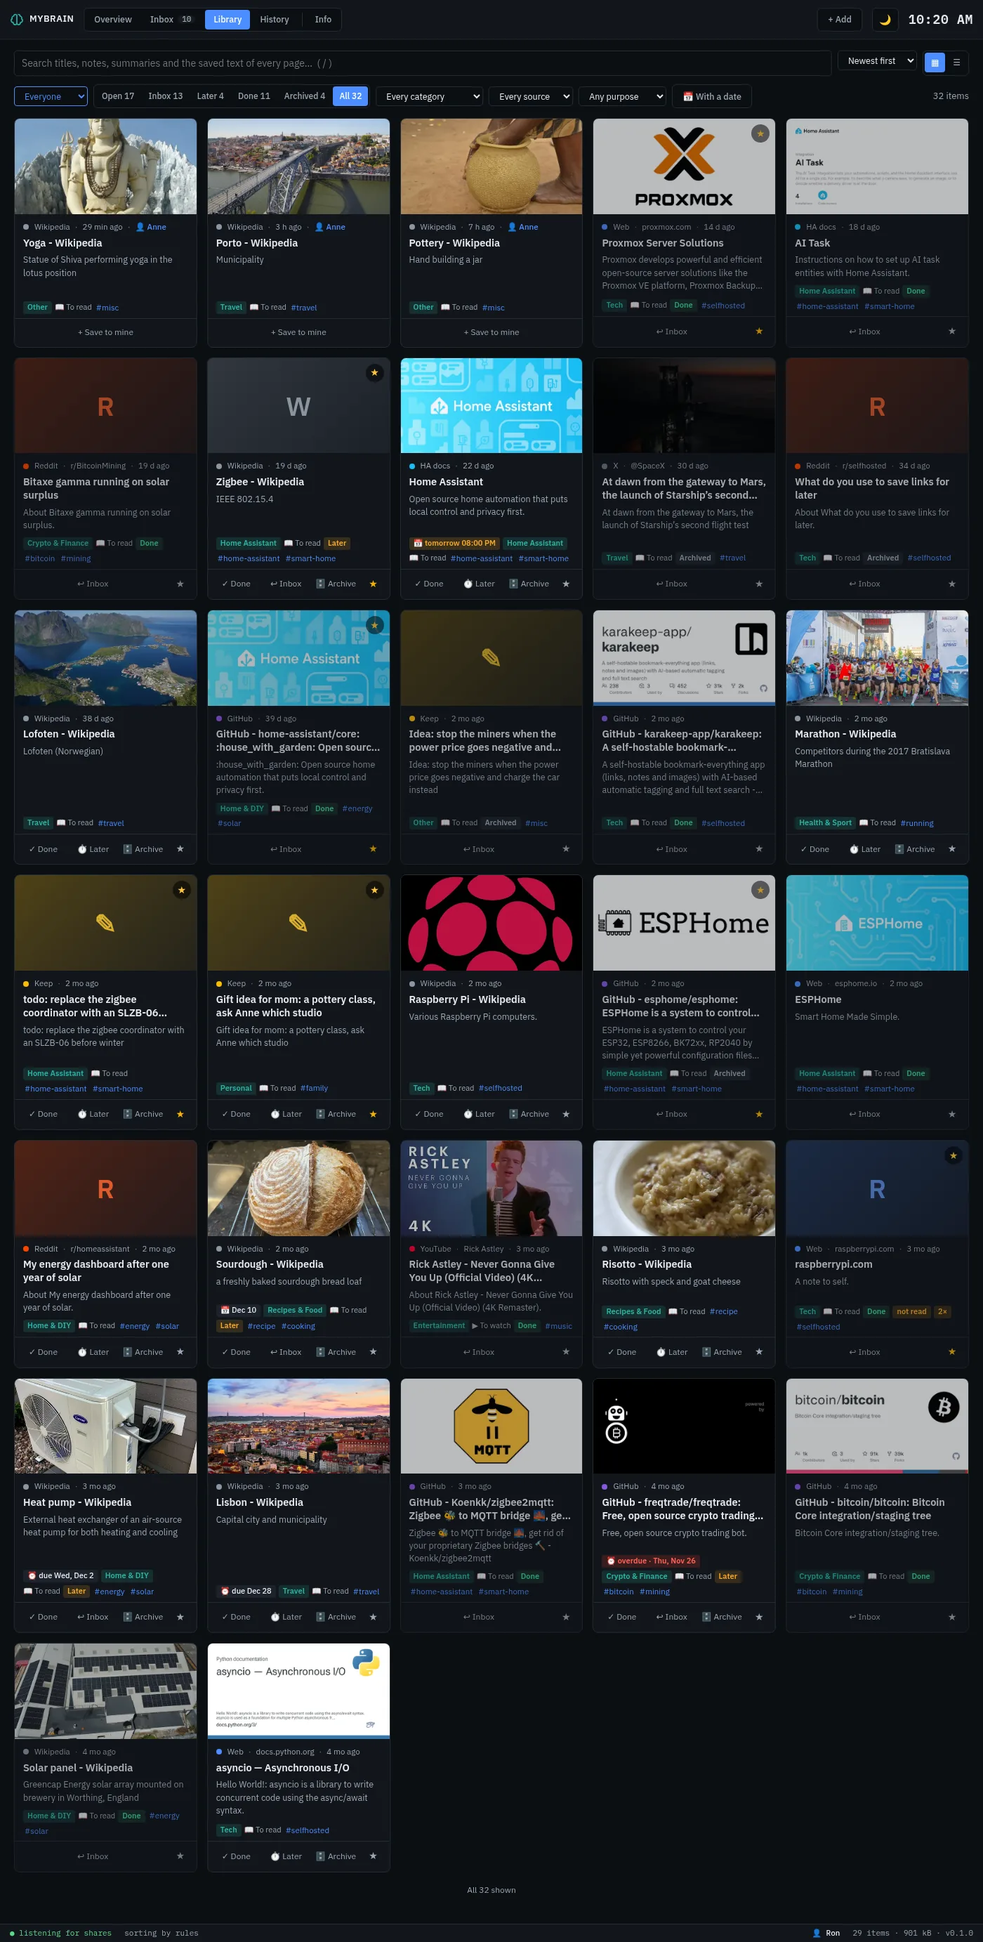
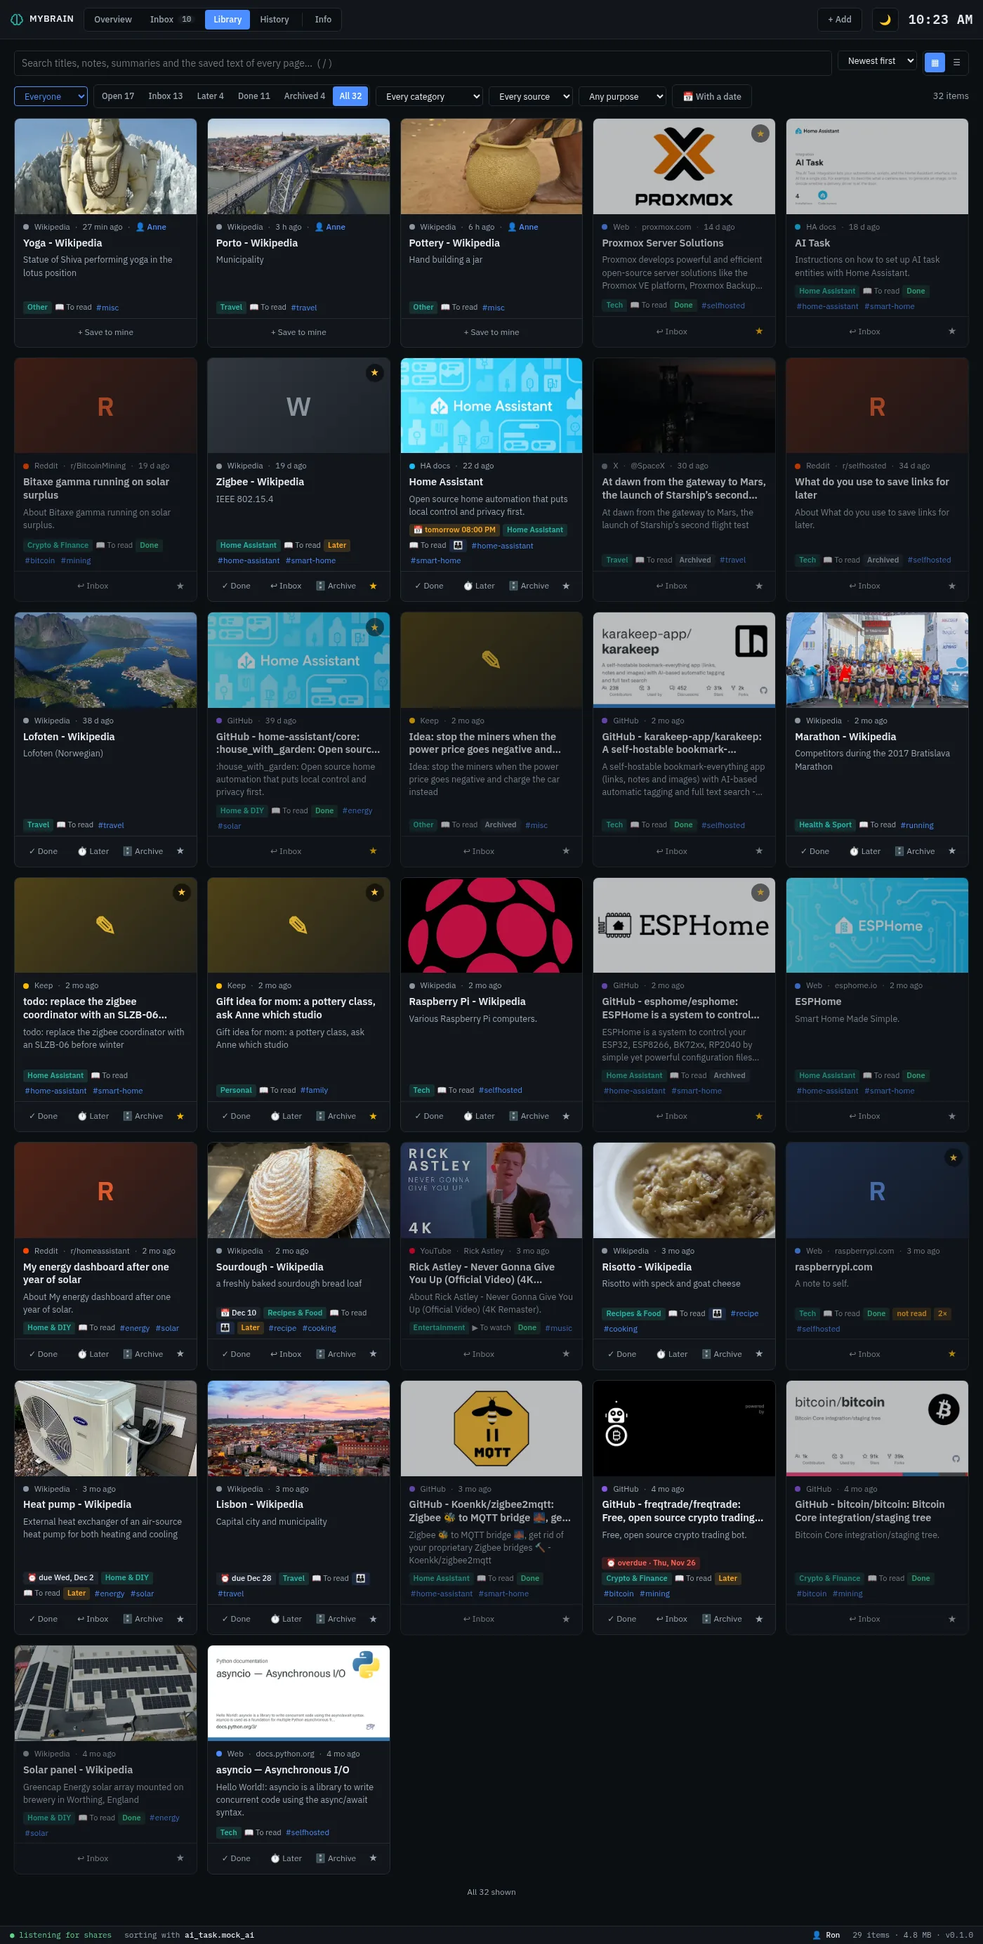
MyBrain 0.1.0: private by default, shared with the household on request
A new item is only its owner's until they share it (👪 Household in the item);
share_by_default turns it the other way round. Cards mark what differs from the
default.

diff --git a/app-mybrain/src/web/pages.js b/app-mybrain/src/web/pages.js
@@ -352,7 +352,7 @@ function drawLibrary() {
     options('lib-source', 'Every source', f.source || {}, sourceName);
     options('lib-purpose', 'Any purpose', f.purpose || {}, k => `${purposeIcon(k)} ${purposeLabel(k)}`);
     document.getElementById('lib-dated').classList.toggle('active', library.dated);
-    // Whose: mine, everyone's, or one person's (only what they didn't mark private)
+    // Whose: mine, everyone's, or one person's (only what they share)
     const others = (app.status.household || []).filter(h => h.owner !== app.status.viewer.id);
     const whoseEl = document.getElementById('lib-whose');
     whoseEl.hidden = !others.length && library.whose === 'mine';
@@ -451,12 +451,12 @@ onTab('info', () => {
         <div class="panel"><div class="panel-body">
             <div class="section-title">Calendar</div>
             ${calendarText(s)}
-            <p class="muted">Open items with a <b>due</b> date (⏰) or an <b>on</b> date (📅) are kept in step: changed when the item changes, removed when it is done or archived. Yours has all of yours; the household calendar has everyone's that aren't private. Add one in Home Assistant with <b>Settings → Devices &amp; services → Add integration → Local Calendar</b>. Events you add there yourself are left alone.</p>
+            <p class="muted">Open items with a <b>due</b> date (⏰) or an <b>on</b> date (📅) are kept in step: changed when the item changes, removed when it is done or archived. Yours has all of yours; the household calendar has what everyone shares. Add one in Home Assistant with <b>Settings → Devices &amp; services → Add integration → Local Calendar</b>. Events you add there yourself are left alone.</p>
             ${infoRow('Sensor', `<span class="mono">${escapeHtml((s.entities || {}).next_sensor || 'sensor.mybrain_next')}</span>: your next item with a date (overdue ones first), with when, how many days, the link and the next five`)}
         </div></div>
         <div class="panel"><div class="panel-body">
             <div class="section-title">In Home Assistant</div>
-            ${infoRow('You', s.viewer.id ? `${escapeHtml(s.viewer.name || 'signed in')}: your own inbox, library and history; the household sees your items unless you mark them 🔒 private` : 'one collection for everyone (the app does not know who is looking)')}
+            ${infoRow('You', s.viewer.id ? `${escapeHtml(s.viewer.name || 'signed in')}: your own inbox, library and history; ${s.config.share_by_default ? 'the household sees your items unless you mark them 🔒 private' : 'what you save is only yours until you share it with the household (👪 in an item)'}` : 'one collection for everyone (the app does not know who is looking)')}
             ${infoRow('Sensor', `<span class="mono">${escapeHtml((s.entities || {}).inbox_sensor || 'sensor.mybrain_inbox')}</span>: items in your inbox; later, done, archived and total as attributes`)}
             ${infoRow('Home Assistant', escapeHtml(s.ha_version || '–'))}
             <p class="muted">Use it for a badge on a dashboard, or an automation that reminds you when the inbox grows.</p>

diff --git a/app-mybrain/src/web/mybrain.js b/app-mybrain/src/web/mybrain.js
@@ -122,7 +122,10 @@ function card(item, opts) {
     const again = item.shares > 1 ? `<span class="badge warn" title="Saved ${item.shares} times">${item.shares}×</span>` : '';
     const mine = isMine(item);
     const status = opts.showStatus && mine && item.status !== 'inbox' ? `<span class="badge st-${item.status}">${STATUS_LABELS[item.status]}</span>` : '';
-    const lock = item.private ? '<span class="badge private" title="Private: only you see it">🔒</span>' : '';
+    // Only what differs from the household's default gets a mark: 👪 when shared, or 🔒 when private
+    const sharing = app.status.config.share_by_default;
+    const lock = !mine ? '' : item.private && sharing ? '<span class="badge private" title="Private: only you see it">🔒</span>'
+        : !item.private && !sharing && item.owner ? '<span class="badge shared" title="Shared with the household">👪</span>' : '';
     const actions = !mine
         ? `<button type="button" class="act" data-act="copy" title="Save it to your own MyBrain">+ Save to mine</button>`
         : item.status === 'done' || item.status === 'archived'
@@ -269,7 +272,7 @@ function renderSheet() {
                     <label>Tags</label><input class="input" data-field="tags" value="${escapeHtml((item.tags || []).join(', '))}" placeholder="comma, separated" spellcheck="false">
                     <label title="By when it needs doing">Due</label>${dateField('due', item.due)}
                     <label title="When it happens: an event, a trip, a release">On</label>${dateField('happens_on', item.happens_on)}
-                    <label title="Who else sees it">Seen by</label>${segmented('private', [[0, '👪 Household'], [1, '🔒 Only me']], item.private ? 1 : 0)}
+                    <label title="Who else sees it">Seen by</label>${segmented('private', [[1, '🔒 Only me'], [0, '👪 Household']], item.private ? 1 : 0)}
                 </div>
                 <h3>Your note</h3>
                 <textarea class="input note-edit" data-field="note" rows="3" placeholder="Why did you save this?">${escapeHtml(item.note || '')}</textarea>`

diff --git a/app-mybrain/src/web/mybrain.css b/app-mybrain/src/web/mybrain.css
@@ -53,6 +53,7 @@ kbd { font-family: var(--mono); font-size: 11px; padding: 1px 5px; border: 1px s
 .badge.date { background: var(--grid-color); color: var(--primary-text-color); font-weight: 500; }
 .badge.date.warn { background: rgba(245,165,36,0.18); color: var(--warning-color); font-weight: 600; }
 .badge.date.bad { background: var(--danger-bg); color: var(--danger-color); font-weight: 600; }
+.badge.shared { background: color-mix(in srgb, var(--primary-color) 14%, transparent); color: var(--primary-color); }
 .badge.private { background: var(--grid-color); color: var(--secondary-text-color); }
 .card-meta .owner { color: var(--primary-color); font-weight: 500; }
 .date-field { display: flex; gap: 6px; align-items: center; flex-wrap: wrap; }

diff --git a/app-mybrain/tests/test_mybrain.py b/app-mybrain/tests/test_mybrain.py
@@ -427,7 +427,7 @@ async def test_dates_are_edited_and_listed(brain, store):
 
 
 # ----------------------------------------------------------------------
-# Users: own items, public by default, private when marked
+# Users: own items, private by default, shared when marked
 # ----------------------------------------------------------------------
 async def test_each_user_has_their_own_items(brain, store):
     b = brain(ai=False)
@@ -436,6 +436,10 @@ async def test_each_user_has_their_own_items(brain, store):
     assert ron != anne  # the same link is a separate item per user
     [again] = await b.add(text="https://example.com/a?utm_source=x", owner="u-anne")
     assert again == anne
+    # Private until shared
+    assert store.get(anne)["private"] == 1
+    assert store.search(viewer="u-ron", whose="everyone")["total"] == 1
+    await b.edit(anne, {"private": False}, "u-anne")
     assert [i["id"] for i in store.search(viewer="u-ron")["items"]] == [ron]
     assert {i["id"] for i in store.search(viewer="u-ron", whose="everyone")["items"]} == {ron, anne}
     assert [i["id"] for i in store.search(viewer="u-ron", whose="user:u-anne")["items"]] == [anne]
@@ -445,6 +449,8 @@ async def test_each_user_has_their_own_items(brain, store):
 async def test_private_items_stay_private(brain, store):
     b = brain(ai=False)
     [secret] = await b.add(text="a surprise for Ron", owner="u-anne")
+    await b.edit(secret, {"private": False}, "u-anne")
+    assert store.search(viewer="u-ron", whose="everyone")["total"] == 1
     await b.edit(secret, {"private": True}, "u-anne")
     assert store.search(viewer="u-ron", whose="everyone")["total"] == 0
     assert store.search(viewer="u-ron", whose="user:u-anne")["total"] == 0
@@ -458,6 +464,7 @@ async def test_private_items_stay_private(brain, store):
 async def test_only_the_owner_changes_an_item(brain, store):
     b = brain(ai=False)
     [item_id] = await b.add(text="https://example.com/b", owner="u-anne")
+    await b.edit(item_id, {"private": False}, "u-anne")
     for attempt in (
         b.edit(item_id, {"status": "done"}, "u-ron"),
         b.delete(item_id, "u-ron"),
@@ -495,3 +502,10 @@ def test_entity_names_per_user(store):
         [{"id": 1, "title": "Trip", "owner": "u-anne", "due": "", "happens_on": "2026-12-01"}], users
     )
     assert events["mybrain:1:happens_on"]["summary"] == "Trip (Anne-Marie)"
+
+
+async def test_share_by_default_option(tmp_path, store):
+    b = Brain(Config(share_by_default=True), store, FakeHA(False), FakeFetcher(tmp_path, {}))
+    [item_id] = await b.add(text="for everyone", owner="u-anne")
+    assert store.get(item_id)["private"] == 0
+    assert Config.from_options({}).share_by_default is False

diff --git a/app-mybrain/src/brain.py b/app-mybrain/src/brain.py
@@ -87,6 +87,8 @@ class Brain:
         note = re.sub(r"[ \t]+", " ", note)
         note = re.sub(r"\n\s*\n+", "\n\n", note).strip(" \n-\u2013\u2014|:")
         extra = {k: v for k, v in (("subject", subject), ("device", device)) if v}
+        # Only for whoever saved it, until they share it (unless the household shares by default)
+        private = 0 if self.config.share_by_default or not owner else 1
 
         if not links:
             if not note and not subject:
@@ -104,6 +106,7 @@ class Brain:
                     "fetch_state": "skipped",
                     "extra": extra,
                     "owner": owner,
+                    "private": private,
                 },
             )
             self._enqueue(item_id)
@@ -132,6 +135,7 @@ class Brain:
                     "fetch_state": "waiting" if self.config.fetch_pages else "skipped",
                     "extra": extra,
                     "owner": owner,
+                    "private": private,
                 },
             )
             self._enqueue(item_id)

diff --git a/app-mybrain/tools/seed.py b/app-mybrain/tools/seed.py
@@ -69,8 +69,8 @@ SHARES = [
         "user": "u-anne",
     },
 ]
-# Anne keeps the present to herself
-PRIVATE = ["Birthday present for Ron%"]
+# What is shared with the household (the rest stays private, the default)
+SHARED = ["Pottery%", "Porto%", "Yoga%", "Lisbon%", "Sourdough%", "Risotto%", "Home Assistant"]
 
 
 def wait_until_done() -> None:
@@ -125,8 +125,8 @@ def main(data_dir: Path) -> None:
     ):
         value = time.strftime("%Y-%m-%d", time.localtime(now + offset * day)) + time_of_day
         db.execute(f"UPDATE items SET {kind} = ? WHERE id = ?", (value, item_id))
-    for pattern in PRIVATE:
-        db.execute("UPDATE items SET private = 1 WHERE title LIKE ?", (pattern,))
+    for pattern in SHARED:
+        db.execute("UPDATE items SET private = 0 WHERE title LIKE ?", (pattern,))
     db.commit()
     print(f"{len(ids)} items")
 

diff --git a/app-mybrain/src/config.py b/app-mybrain/src/config.py
@@ -60,6 +60,8 @@ class Config:
     calendar_sync: bool = True
     # Which calendar; empty is calendar.mybrain (a Local Calendar named MyBrain)
     calendar_entity: str = ""
+    # New items are seen by the household (True) or only by whoever saved them (False, the default)
+    share_by_default: bool = False
     categories: list[str] = field(default_factory=lambda: list(DEFAULT_CATEGORIES))
     log_level: str = "info"
 
@@ -96,6 +98,7 @@ class Config:
             ai_task_entity=entity,
             calendar_sync=bool(options.get("calendar_sync", True)),
             calendar_entity=calendar,
+            share_by_default=bool(options.get("share_by_default", False)),
             categories=categories,
             log_level=str(options.get("log_level") or "info"),
         )

diff --git a/app-mybrain/src/webui.py b/app-mybrain/src/webui.py
@@ -114,6 +114,7 @@ class WebUI:
                     "ai_task_entity": self.config.ai_task_entity,
                     "calendar_sync": self.config.calendar_sync,
                     "calendar_entity": self.config.calendar_entity,
+                    "share_by_default": self.config.share_by_default,
                 },
                 "categories": self.config.categories,
                 "purposes": classify.PURPOSES,

diff --git a/app-mybrain/DOCS.md b/app-mybrain/DOCS.md
@@ -18,10 +18,10 @@ Every Home Assistant user has their own MyBrain in the same app:
 
 - **What you share is yours.** A share belongs to the user your phone's Home Assistant app is signed in as; what you add on the page belongs to you.
 - **Your own inbox, overview and history.** The overview and the inbox only count your items.
-- **Seen by the household, unless private.** Others can browse your items (**Library → Whose → Everyone**, or a person), open them, and **+ Save to mine** to get their own copy. Set **Seen by → 🔒 Only me** in an item to keep it to yourself: then nobody else sees it, and it stays out of the household calendar.
+- **Yours alone, until you share it.** A new item is only seen by you. Set **Seen by → 👪 Household** in an item to share it: then the others can browse it (**Library → Whose → Everyone**, or a person), open it, and **+ Save to mine** to get their own copy, and it goes into the household calendar. Shared items have 👪 on their card. Turn on `share_by_default` to have it the other way round: everything shared unless marked **🔒 Only me**.
 - **Only you change your items.** Others can't mark them done, change them or delete them.
 - **Per person in Home Assistant:** `sensor.mybrain_inbox_<name>`, `sensor.mybrain_next_<name>` and, when you add a Local Calendar named **MyBrain <name>**, `calendar.mybrain_<name>` with all your items that have a date. `<name>` is the person's name as Home Assistant writes it in an entity id (Anne-Marie → `anne_marie`).
-- **The household calendar** `calendar.mybrain` (a Local Calendar named **MyBrain**) has everyone's items with a date that aren't private, with whose it is after the title.
+- **The household calendar** `calendar.mybrain` (a Local Calendar named **MyBrain**) has everyone's shared items with a date, with whose it is after the title.
 
 Names come from the person entities in Home Assistant. A user who has never saved anything has no sensors yet.
 
@@ -97,7 +97,7 @@ An item can have two dates, each a day or a day with a time:
 
 Set them in the item. With AI sorting on, a date the content names is filled in by itself (only when the item has none yet, and only today or later, within three years).
 
-**The calendars.** With a Local Calendar named **MyBrain <name>** (`calendar.mybrain_<name>`) the app keeps it in step with every open item of that person that has a date; the household calendar **MyBrain** (`calendar.mybrain`, or the one in `calendar_entity`) gets everyone's that aren't private. In both: due dates as ⏰ events, on dates as normal ones, a whole day or half an hour / an hour at the time given. The event has the link and your note. Changing the item changes the event; done, archived or deleted removes it. The app recognises its own events by the last line of their description (`mybrain:<item>:<kind>`) and never touches other events in that calendar, so you may use it for other things too. Changing a MyBrain event in the calendar is undone at the next sync: change the item instead.
+**The calendars.** With a Local Calendar named **MyBrain <name>** (`calendar.mybrain_<name>`) the app keeps it in step with every open item of that person that has a date; the household calendar **MyBrain** (`calendar.mybrain`, or the one in `calendar_entity`) gets everyone's shared ones. In both: due dates as ⏰ events, on dates as normal ones, a whole day or half an hour / an hour at the time given. The event has the link and your note. Changing the item changes the event; done, archived or deleted removes it. The app recognises its own events by the last line of their description (`mybrain:<item>:<kind>`) and never touches other events in that calendar, so you may use it for other things too. Changing a MyBrain event in the calendar is undone at the next sync: change the item instead.
 
 **`sensor.mybrain_next_<name>`** — your next item with a date: overdue due dates first, then whatever comes next. The state is its title; the attributes are `when`, `kind` (`due` or `happens_on`), `days` (negative when overdue), `url`, `item_id`, `category`, `overdue` (how many) and `upcoming` (the next five).
 
@@ -130,6 +130,7 @@ listen_shares: true
 fetch_pages: true
 ai_classify: true
 calendar_sync: true
+share_by_default: false
 categories:
   - Tech
   - Home Assistant
@@ -145,6 +146,7 @@ categories:
 | `ai_task_entity` | *(empty)* | Which AI Task entity, like `ai_task.openai_ai_task`. Empty: the first one |
 | `calendar_sync` | `true` | Keep the calendar in step with the items that have a date |
 | `calendar_entity` | *(empty)* | Which calendar is the household's. Empty: `calendar.mybrain` |
+| `share_by_default` | `false` | Off: a new item is only its owner's until they share it. On: new items are shared with the household unless marked private |
 | `categories` | 14 categories | The categories to sort into. `Other` is always added. Renaming one doesn't move the items that have it: they keep the old name until sorted again or changed |
 | `log_level` | `info` | `debug`, `info`, `warning` or `error` |
 

diff --git a/app-mybrain/CHANGELOG.md b/app-mybrain/CHANGELOG.md
@@ -4,4 +4,4 @@
 
 **After updating:** nothing to do. Open **MyBrain** from the sidebar, then on your phone share any link to the **Home Assistant** app.
 
-- First version. What is shared to the Home Assistant companion app is saved at once; the page behind a link is read (title, picture, text) and the item sorted into a category with tags, what it is for and a priority, by an AI Task entity in Home Assistant when there is one, otherwise by built-in rules. An inbox to work through, a searchable library with filters, an overview with what is saved and handled, what is waiting and what is being forgotten, the history of everything, adding by hand, an export of everything as JSON. Items can have a due date and an on date (the AI fills them in when the content names one); open items with a date are kept in a Local Calendar (`calendar.mybrain`), and `sensor.mybrain_next` holds the next one. `sensor.mybrain_inbox` holds the size of the inbox. Every Home Assistant user has their own MyBrain: a share belongs to the user the phone is signed in as, items are seen by the household unless marked private, others' items can be browsed and saved to your own, and the sensors and a personal calendar exist per user, next to a household calendar.
+- First version. What is shared to the Home Assistant companion app is saved at once; the page behind a link is read (title, picture, text) and the item sorted into a category with tags, what it is for and a priority, by an AI Task entity in Home Assistant when there is one, otherwise by built-in rules. An inbox to work through, a searchable library with filters, an overview with what is saved and handled, what is waiting and what is being forgotten, the history of everything, adding by hand, an export of everything as JSON. Items can have a due date and an on date (the AI fills them in when the content names one); open items with a date are kept in a Local Calendar (`calendar.mybrain`), and `sensor.mybrain_next` holds the next one. `sensor.mybrain_inbox` holds the size of the inbox. Every Home Assistant user has their own MyBrain: a share belongs to the user the phone is signed in as, items are private until their owner shares them with the household (or shared by default with `share_by_default`), shared items can be browsed by the others and saved to their own, and the sensors and a personal calendar exist per user, next to a household calendar.

diff --git a/app-mybrain/SECURITY.md b/app-mybrain/SECURITY.md
@@ -52,10 +52,10 @@ So you know what is at stake:
   Home Assistant's ingress says is looking (`X-Remote-User-Id`). Every request
   must come from the ingress proxy, so another app on the network can't claim
   to be someone else. Only the owner changes or deletes an item.
-- **Public by default, private on request.** Everyone in the household can
-  browse an item unless its owner marks it private; a private item is not
-  shown to others, not in the household calendar, and not in what others can
-  copy. Administrators of Home Assistant can of course read the app's database
+- **Private by default, shared on request.** A new item is only seen by its
+  owner until they share it with the household (with `share_by_default` on,
+  the other way round). A private item is not shown to others, not in the
+  household calendar, and not in what others can copy. Administrators of Home Assistant can of course read the app's database
   through a backup.
 - **Only from Home Assistant's signed-in ingress.** Adding, changing and
   deleting are accepted from the ingress proxy and as JSON only. The panel is

diff --git a/app-mybrain/README.md b/app-mybrain/README.md
@@ -56,7 +56,7 @@ on date go into a calendar in Home Assistant, and a sensor tells what is next.
 - 🕘 **History** — Every save, open, sort and status change, per item and for everything
 - ♻ **No doubles** — The same link saved again (other tracking codes, a short link) comes back to the inbox instead of being saved twice
 - 📅 **Dates and a calendar** — A due date or an on date per item (the AI finds them in the content); every open item with a date in a Local Calendar in Home Assistant
-- 👪 **For the household** — Everyone has their own inbox, library and calendar; items are seen by the others unless marked 🔒 private, and can be saved to your own with one tap
+- 👪 **For the household** — Everyone has their own inbox, library and calendar; what you save is yours alone until you share it 👪, and what others share can be saved to your own with one tap
 - 🔢 **Sensors** — per person `sensor.mybrain_next_<name>` with the next item that has a date, and `sensor.mybrain_inbox_<name>` with the size of the inbox
 
 ## Requirements
